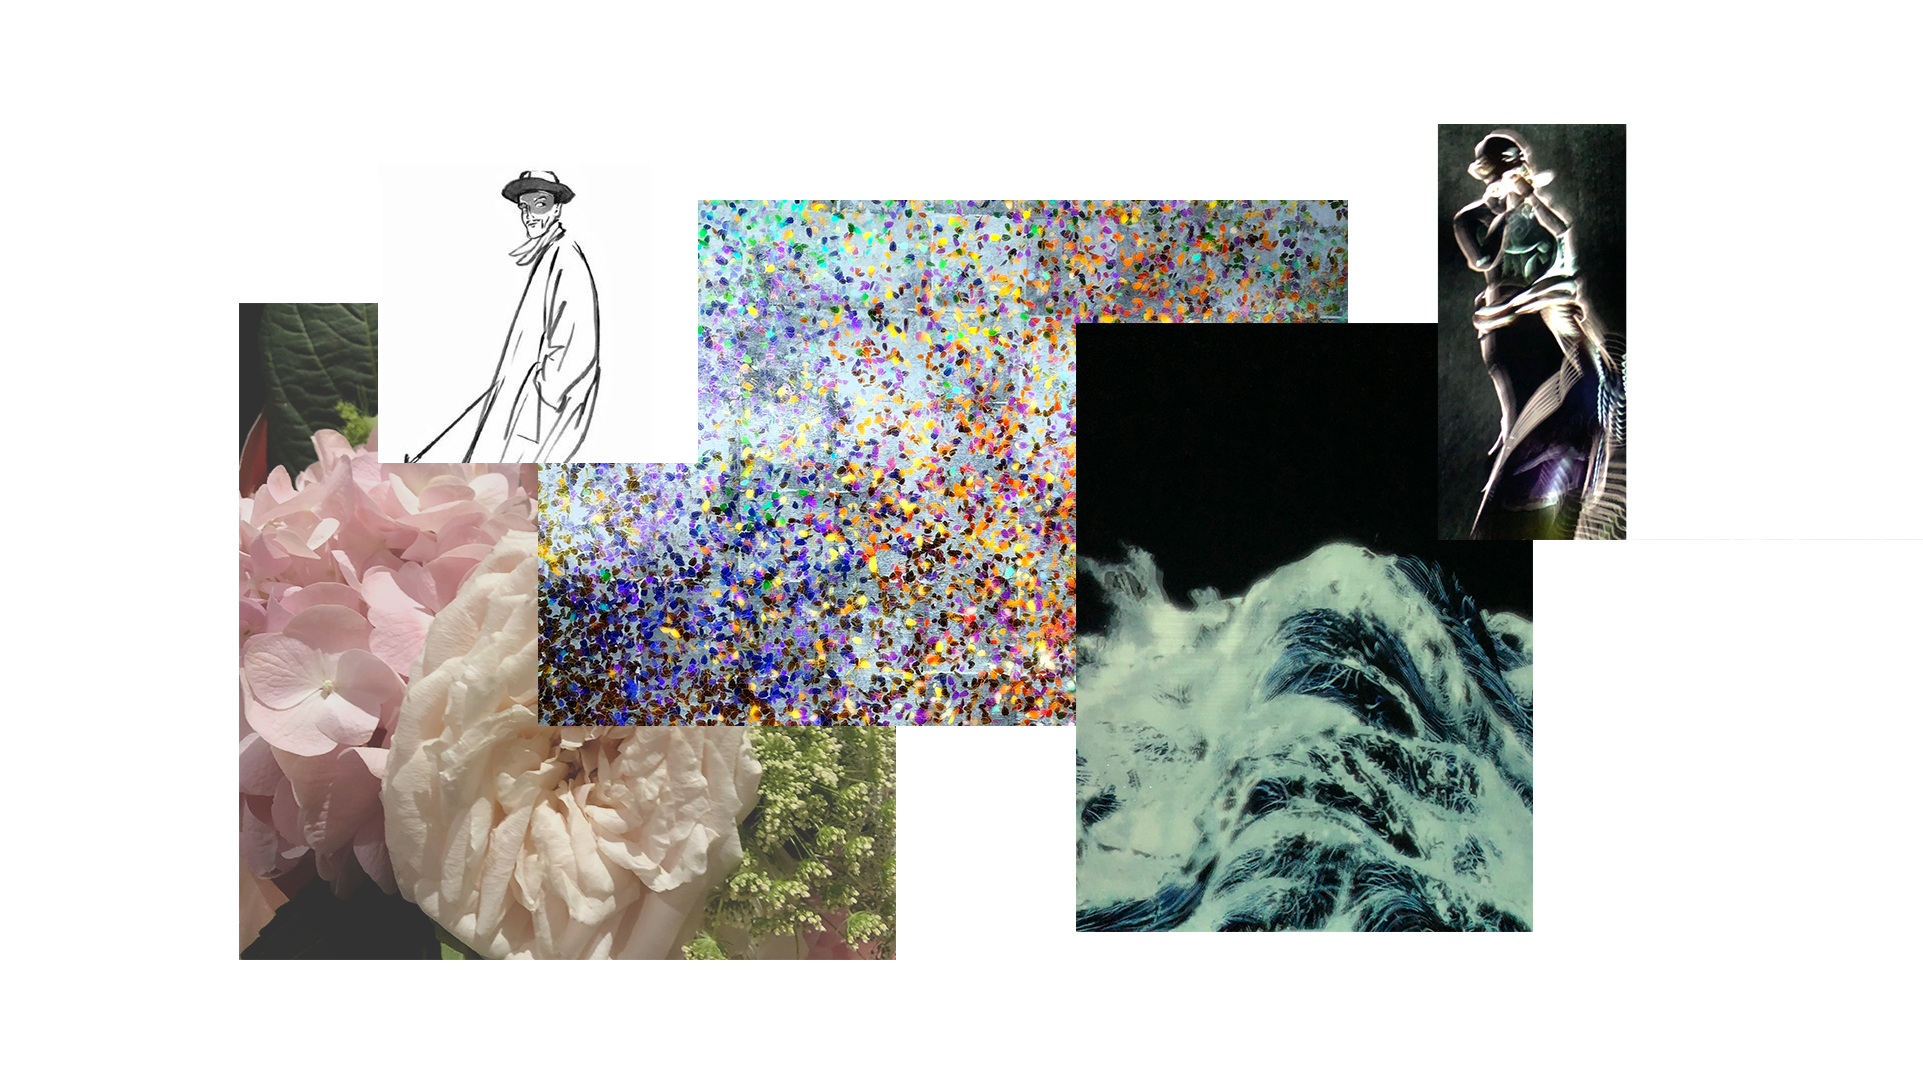
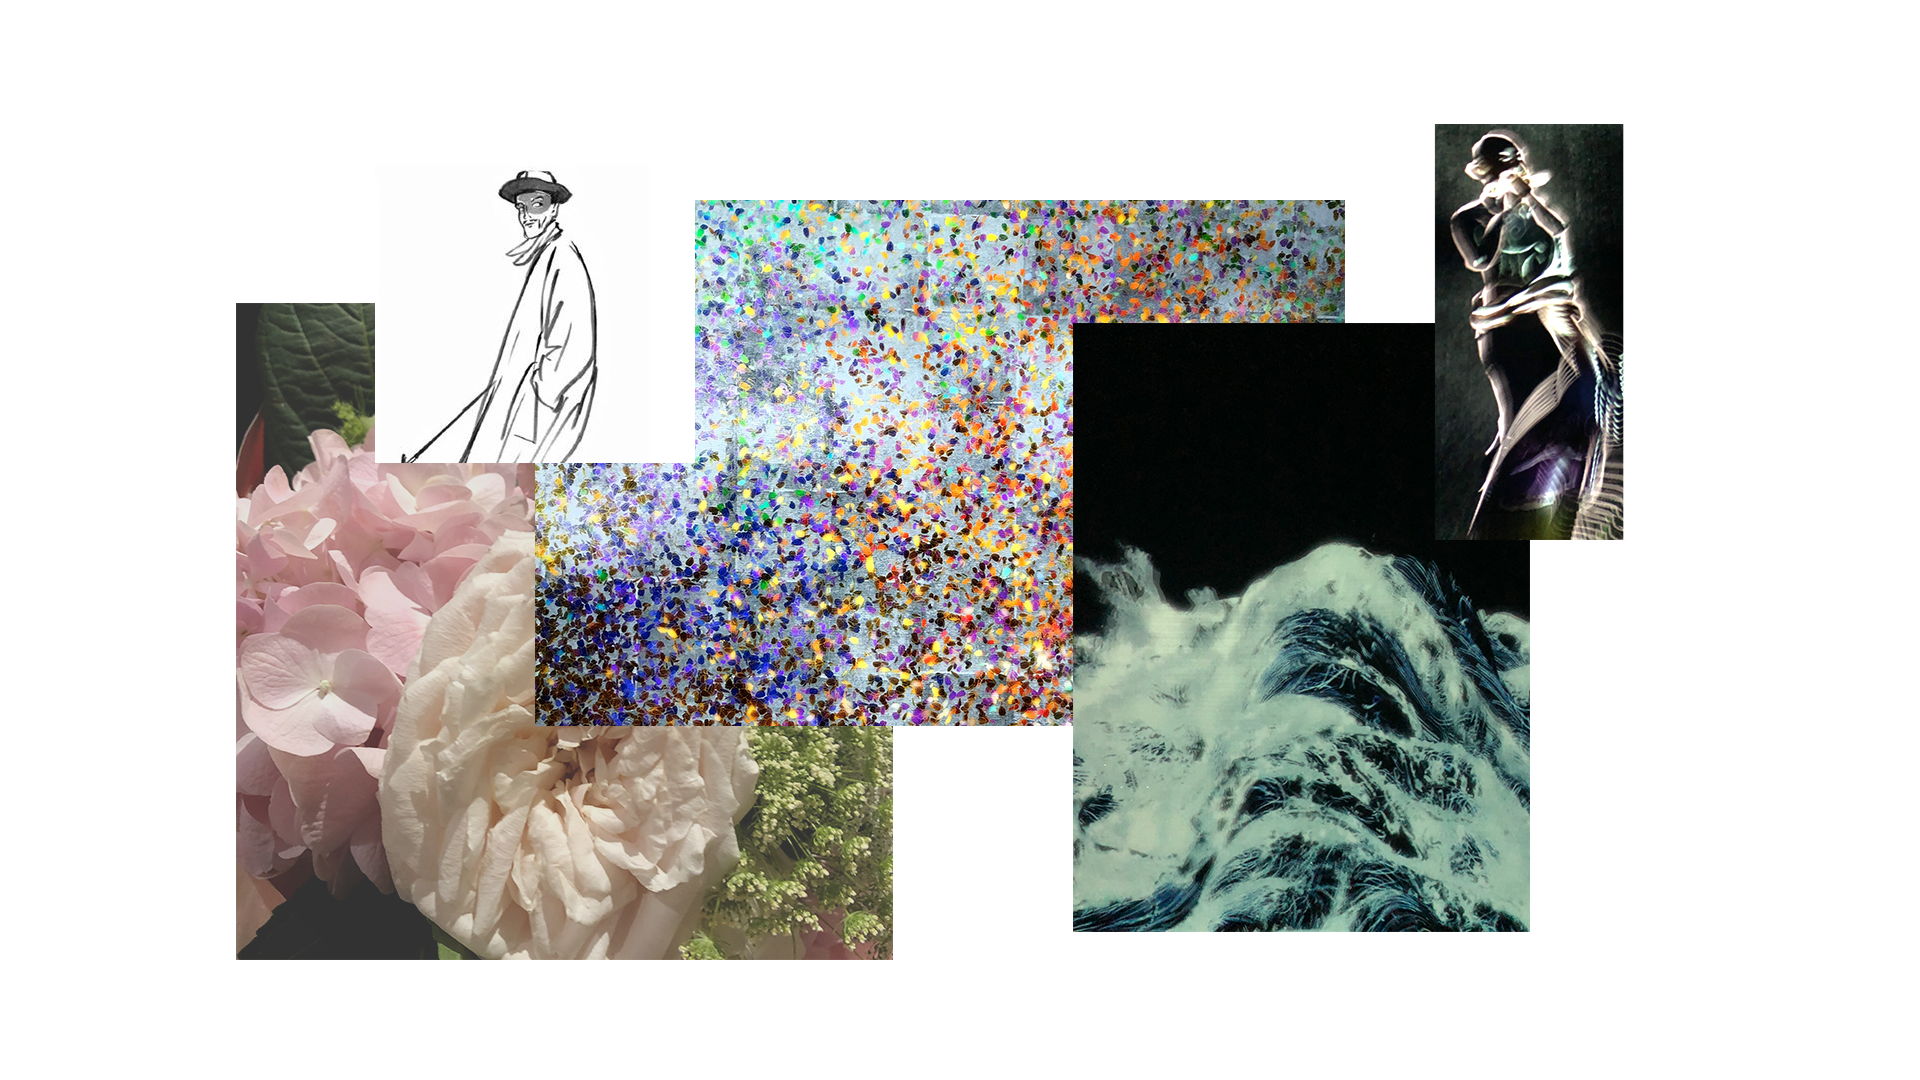
Removed naked domain from CNAME

diff --git a/src/components/Home.js b/src/components/Home.js
@@ -6,19 +6,24 @@ import clsx from "clsx";
 
 function Home() {
   const [animated, setAnimated] = useState(false);
-  const [originalDivPos, setOriginalDivPos] = useState(home.centerImageContainer);
-  const [offScreenDivPos, setOffScreenDivPos] = useState(home.leftImageContainer);
+  const [pos1, setPos1] = useState(home.centerImageContainer);
+  const [pos2, setPos2] = useState(home.leftImageContainer);
 
   function handleClick() {
     setAnimated(!animated);
+    setTimeout(() => {
+      setPos1(home.leftImageContainer);
+      setPos2(home.centerImageContainer);
+      setAnimated(false);
+    }, 1000);
   }
 
   return (
     <div className="page-layout">
       <div
         className={clsx(
-          home.centerImageContainer,
-          home.animated,
+          pos1, 
+          animated ? home.animated : null,
           animated ? home.moveRight : null,
         )}
       >
@@ -26,8 +31,8 @@ function Home() {
       </div>
       <div
         className={clsx(
-          home.leftImageContainer,
-          home.animated,
+          pos2,
+          animated? home.animated : null,
           animated ? home.moveRight : null,
         )}
       >

diff --git a/src/components/Home.module.css b/src/components/Home.module.css
@@ -40,8 +40,9 @@ img {
 
 .centerImageContainer{
   position: absolute;
-  top: 50%;
+  /* top: 50%; */
   width: 100vw;
+  height: 100%;
 }
 
 .leftImageContainer{
